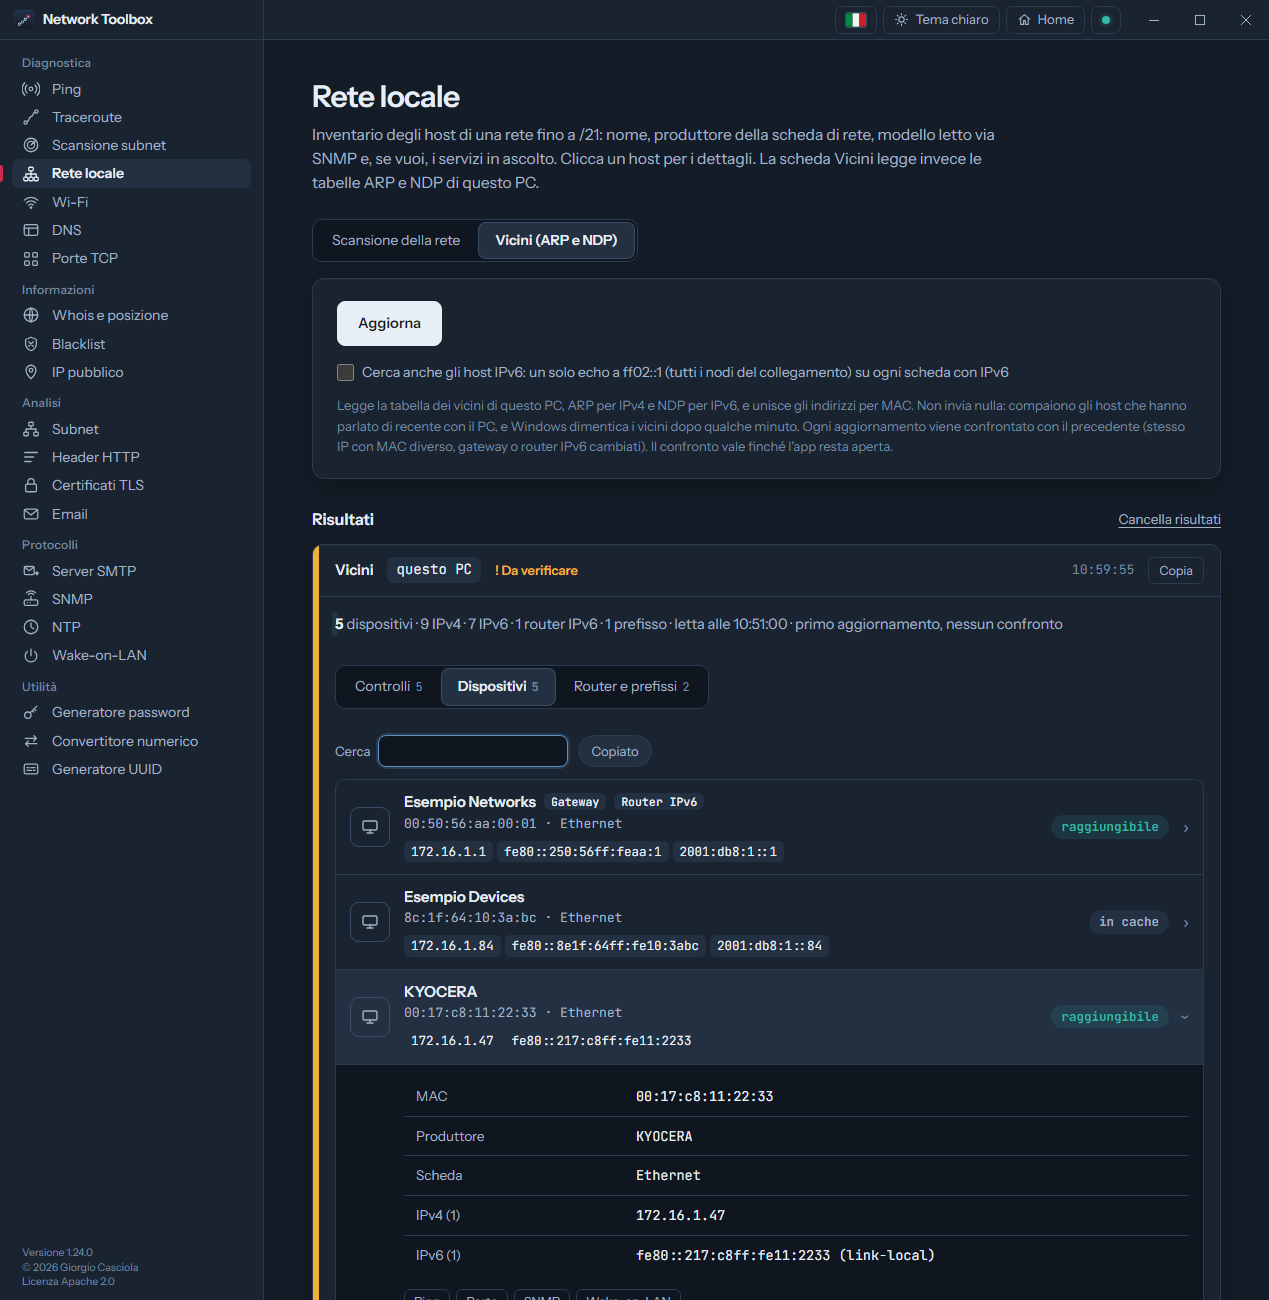
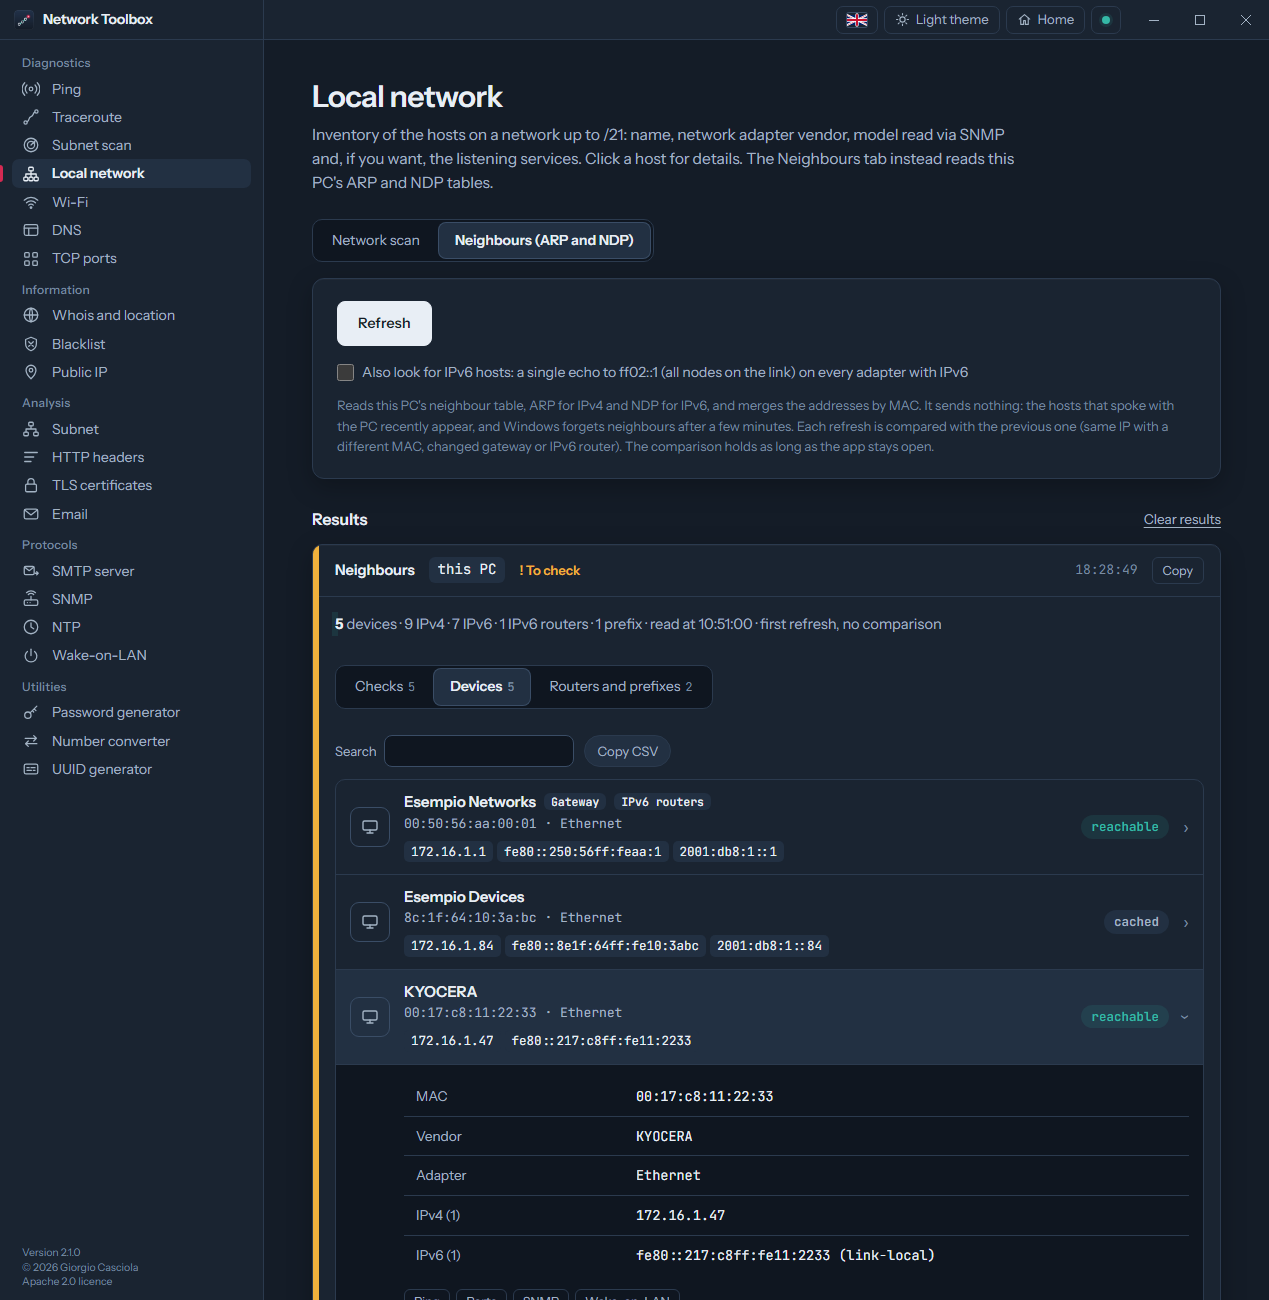
Use English-interface screenshots in the README

diff --git a/README.md b/README.md
@@ -29,7 +29,7 @@ every result can be copied or exported as CSV.
 <img src="docs/screenshots/wifi-networks.png" width="49%" alt="Wi-Fi networks">
 </p>
 
-*(Screenshots: Italian interface, sample data with reserved example names and addresses.)*
+*(Screenshots: English interface, sample data with reserved example names and addresses.)*
 
 ## Installation
 

diff --git a/README.it.md b/README.it.md
@@ -29,7 +29,7 @@ senso ogni risultato si può copiare o esportare in CSV.
 <img src="docs/screenshots/wifi-networks.png" width="49%" alt="Reti Wi-Fi">
 </p>
 
-*(Screenshot: interfaccia italiana, dati di esempio con nomi e indirizzi riservati.)*
+*(Screenshot: interfaccia inglese, dati di esempio con nomi e indirizzi riservati.)*
 
 ## Installazione
 
